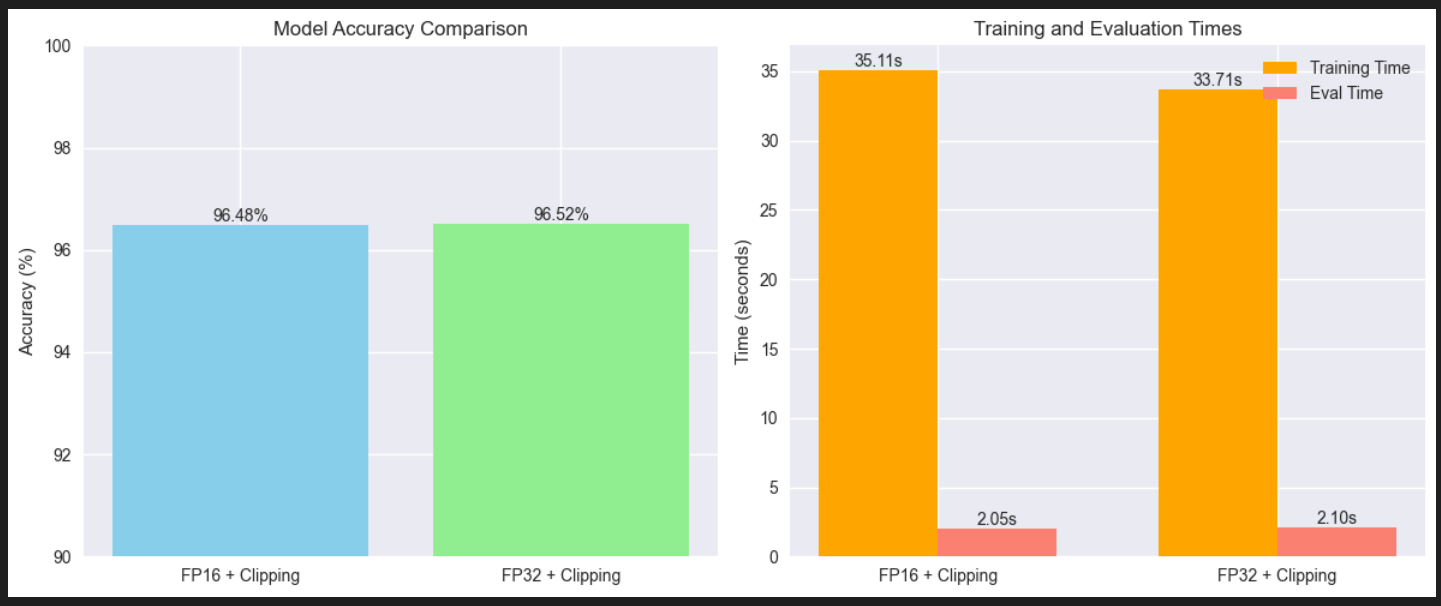
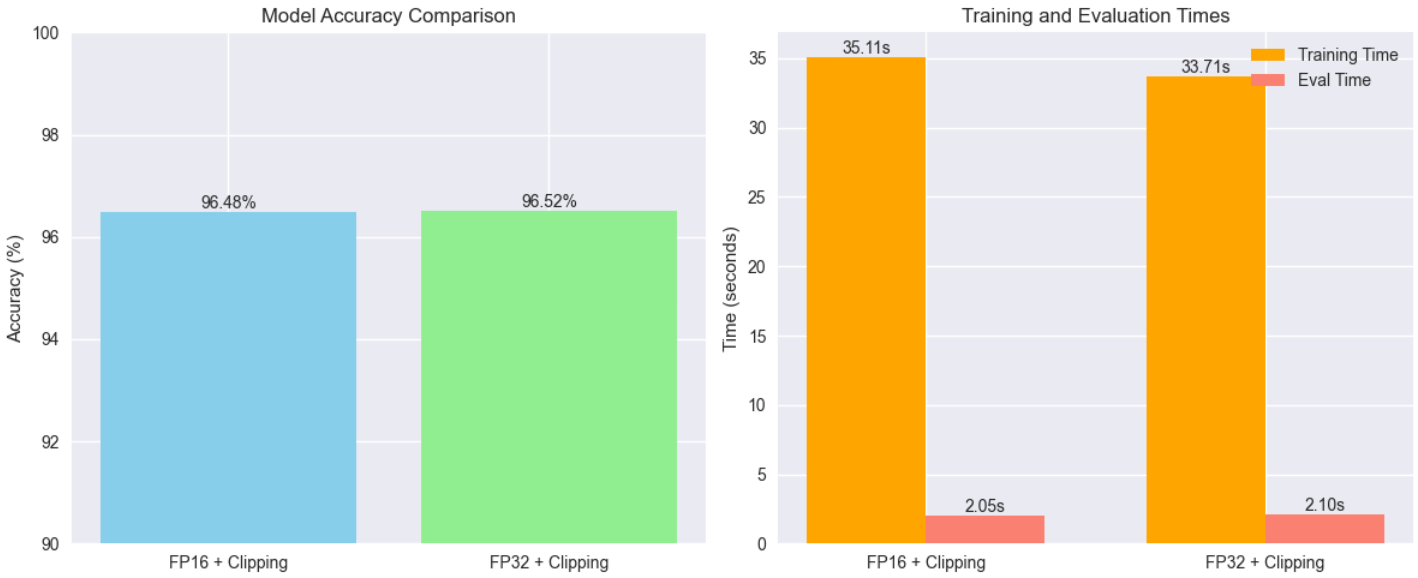
almost done

diff --git a/paper/main.tex b/paper/main.tex
@@ -301,7 +301,7 @@ and computation time across different precision types.
 
 \begin{figure}[H]
 	\centering
-	\includegraphics[width=0.85\textwidth]{figures/FP16_32_clipping.png}
+	\includegraphics[width=0.95\textwidth]{figures/FP16_32_clipping.png}
 	\caption{Affect of Gradient Norm on accuracy, training and testing timings.
 		Accuracy is virtually the same between FP16 and FP32 when gradient clipping is used
 		validating the stability of AMP and gradient scaling.
@@ -311,18 +311,14 @@ and computation time across different precision types.
 
 \begin{figure}[H]
 	\centering
-	\includegraphics[width=0.85\textwidth]{figures/gradclip_16.png}
-	\caption{Effect of Per-Element Gradient Clipping on FP16.
-		Accuracy vs Training & Eval Time}
-	\label{fig:grad16}
+	\includegraphics[width=0.95\textwidth]{figures/gradclip_16.png}
+	\caption{Effect of Per-Element Gradient Clipping on FP16. Accuracy vs Training \& Eval Time}\label{fig:grad16}
 \end{figure}
 
 \begin{figure}[H]
 	\centering
-	\includegraphics[width=0.85\textwidth]{figures/gradclip_32.png}
-	\caption{Effect of Per-Element Gradient Clipping on FP32.
-		Accuracy vs Training & Eval Time}
-	\label{fig:grad32}
+	\includegraphics[width=0.95\textwidth]{figures/gradclip_32.png}
+	\caption{Effect of Per-Element Gradient Clipping on FP32. Accuracy vs Training \& Eval Time}\label{fig:grad32}
 \end{figure}
 
 Figure~\ref{fig:grad16} shows accuracy peaked at 97.07\% with a clipping value
@@ -372,15 +368,13 @@ the hypotheses.
 	\centering
 	\includegraphics[width=0.85\textwidth]{figures/118_dist2.png}
 	\caption{Distribution of model weights in each layer after rounding to two decimals.
-		This appears to be a good approximation already.}
-	\label{fig:118_2}
+		This appears to be a good approximation already.}\label{fig:118_2}
 \end{figure}
 
 \begin{figure}[H]
 	\centering
 	\includegraphics[width=0.85\textwidth]{figures/118_accuracy.png}
-	\caption{Test Accuracy vs.\ number of decimal digits retained in weights.}
-	\label{fig:118_acc}
+	\caption{Test Accuracy vs.\ number of decimal digits retained in weights.}\label{fig:118_acc}
 \end{figure}
 
 Figure~\ref{fig:118_acc} shows how rounding the decimal part affects the test
